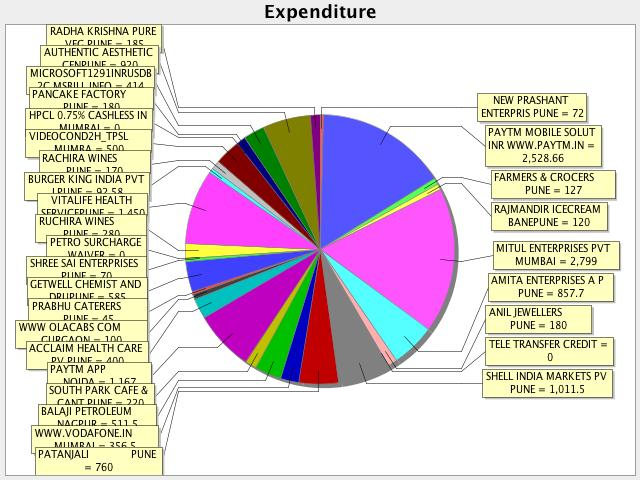
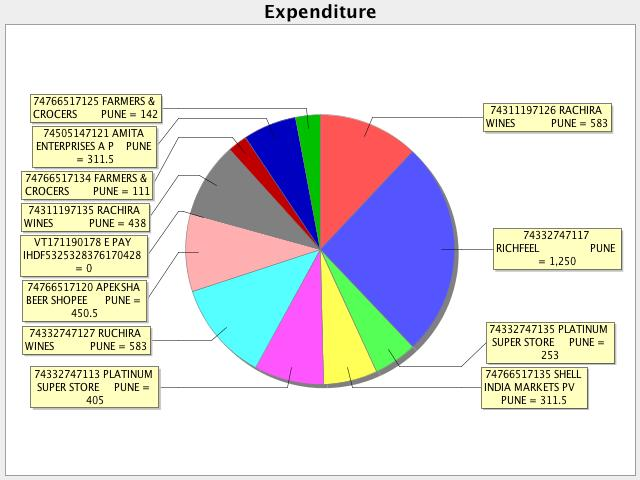
distinct transaction

diff --git a/src/test/java/com/billmartam/transaction/TransactionReportTest.java b/src/test/java/com/billmartam/transaction/TransactionReportTest.java
@@ -9,6 +9,7 @@ import com.billmartam.report.TransactionReport;
 
 import java.util.ArrayList;
 import java.util.List;
+import java.util.Map;
 
 /**
  * Created by pp00344204 on 19/06/17.
@@ -16,7 +17,7 @@ import java.util.List;
 public class TransactionReportTest {
 
     @Test
-    public void testtotalOfTransactionReport(){
+    public void testtotalOfTransactionReport() {
         List<Transaction> contents = new ArrayList<>();
         contents.add(new Transaction("15/05/2017", "PAYTM APP              NOIDA", 100.00f));
         contents.add(new Transaction("16/05/2017", "PAYTM MOBILE SOLUT INR www.paytm.in", 100.00f));
@@ -26,11 +27,11 @@ public class TransactionReportTest {
         transactionReport.setContents(contents);
         double result = transactionReport.getTotalExpenditure();
         double actual = 1024;
-        Assert.assertEquals(actual, result,0.0);
+        Assert.assertEquals(actual, result, 0.0);
     }
 
     @Test
-    public void testformattedtotalOfTransactionReport(){
+    public void testformattedtotalOfTransactionReport() {
         List<Transaction> contents = new ArrayList<>();
         contents.add(new Transaction("15/05/2017", "PAYTM APP              NOIDA", 100.00f));
         contents.add(new Transaction("16/05/2017", "PAYTM MOBILE SOLUT INR www.paytm.in", 100.00f));
@@ -54,7 +55,7 @@ public class TransactionReportTest {
         transactionReport.setContents(contents);
 
         int size = transactionReport.getKeys().size();
-        Assert.assertEquals(3,size);
+        Assert.assertEquals(3, size);
 
     }
 
@@ -69,7 +70,7 @@ public class TransactionReportTest {
         transactionReport.setContents(contents);
 
         double total = transactionReport.getTotalExpenditure();
-        Assert.assertEquals(1000.50f,total,0);
+        Assert.assertEquals(1000.50f, total, 0);
 
     }
 
@@ -97,5 +98,35 @@ public class TransactionReportTest {
 
         Assert.assertNotNull(transactionReport.getOrigin());
 
+    }
+
+    @Test
+    public void getDistinctKeyValuesTest() throws Exception {
+        List<Transaction> contents = new ArrayList<>();
+        contents.add(new Transaction("15/05/2017", "PAYTM APP              NOIDA", 100.00f));
+        contents.add(new Transaction("16/05/2017", "PAYTM MOBILE SOLUT, INR www.paytm.in", 100.00f));
+        contents.add(new Transaction("17/05/2017", "PAYTM MOBILE SOLUT INR www.paytm.in", 40.50f));
+        contents.add(new Transaction("18/05/2017", "PATANJALI              PUNE ", 760.00f));
+        TransactionReport transactionReport = new TransactionReport();
+        transactionReport.setContents(contents);
+
+        Map<String, List<Transaction>> values = transactionReport.getDistinctReport();
+
+        Assert.assertEquals(3,values.size());
+    }
+
+    @Test
+    public void getDistinctKeyandtotalTest() throws Exception {
+        List<Transaction> contents = new ArrayList<>();
+        contents.add(new Transaction("15/05/2017", "PAYTM APP              NOIDA", 100.00f));
+        contents.add(new Transaction("16/05/2017", "PAYTM MOBILE SOLUT, INR www.paytm.in", 100.00f));
+        contents.add(new Transaction("17/05/2017", "PAYTM MOBILE SOLUT INR www.paytm.in", 40.50f));
+        contents.add(new Transaction("18/05/2017", "PATANJALI              PUNE ", 760.00f));
+        TransactionReport transactionReport = new TransactionReport();
+        transactionReport.setContents(contents);
+
+        Map<String, Double> values = transactionReport.getDistinctKeyTotalReport();
+        String key = "PAYTM MOBILE SOLUT INR www.paytm.in";
+        Assert.assertEquals(140.50,values.get(key.toUpperCase()),0);
     }
 }

diff --git a/src/main/java/com/billmartam/pdf/PdfReaderView.java b/src/main/java/com/billmartam/pdf/PdfReaderView.java
@@ -80,16 +80,16 @@ public class PdfReaderView {
     }
 
     private void setOriginButtonListener() {
-        showOriginButton.addActionListener(a->{
+        showOriginButton.addActionListener(a -> {
             doReload();
             hideChart();
-           setSearchBody(convertToHtml(report.getOrigin().getData()));
+            setSearchBody(convertToHtml(report.getOrigin().getData()));
         });
     }
 
     private void setChartButtonListener() {
         chartButton.addActionListener(a -> {
-            if(!isChartVisible()) {
+            if (!isChartVisible()) {
                 setChart(report);
             }
         });
@@ -298,7 +298,7 @@ public class PdfReaderView {
             chartButton.setVisible(true);
             String file = new File(CHART_ICON_PATH).getCanonicalPath();
             Image img = ImageIO.read(new File(file));
-            img = img.getScaledInstance(75,50,2);
+            img = img.getScaledInstance(75, 50, 2);
             chartButton.setIcon(new ImageIcon(img));
         } catch (Exception ex) {
             ex.printStackTrace();
@@ -310,8 +310,8 @@ public class PdfReaderView {
         int height = 480;  /* Height of the image */
         File pieChart = null;
         try {
-            pieChart = new File( new File(CHART_ICON_PATH ).getCanonicalPath());
-            ChartUtilities.saveChartAsJPEG( pieChart , chart , width , height );
+            pieChart = new File(new File(CHART_ICON_PATH).getCanonicalPath());
+            ChartUtilities.saveChartAsJPEG(pieChart, chart, width, height);
         } catch (IOException e) {
             e.printStackTrace();
         }
@@ -392,10 +392,10 @@ public class PdfReaderView {
     private static PieDataset createDataset(TransactionReport report) {
         if (dataset == null) {
             dataset = new DefaultPieDataset();
-            Set keys = report.getKeys();
+            Map<String, Double> distinctKeyTotalReport = report.getDistinctKeyTotalReport();
+            Set keys = distinctKeyTotalReport.keySet();
             for (Object key : keys) {
-                double total = getGroupTotal((String) key, report);
-                dataset.setValue((String) key, total);
+                dataset.setValue((String) key, distinctKeyTotalReport.get(key));
             }
         }
         return dataset;

diff --git a/src/main/java/com/billmartam/report/TransactionReport.java b/src/main/java/com/billmartam/report/TransactionReport.java
@@ -2,12 +2,11 @@ package com.billmartam.report;
 
 import com.billmartam.pdf.Pdf;
 import com.billmartam.transaction.Transaction;
+import com.billmartam.transaction.TransactionSearch;
 import com.billmartam.util.Util;
 
 import java.io.Serializable;
-import java.util.HashSet;
-import java.util.List;
-import java.util.Set;
+import java.util.*;
 
 /**
  * Created by pp00344204 on 06/06/17.
@@ -84,5 +83,30 @@ public class TransactionReport implements Serializable{
 
     public Pdf getOrigin() {
         return pdf;
+    }
+
+    public Map<String, List<Transaction>> getDistinctReport() {
+        Set keys = getKeys();
+        TransactionSearch search = TransactionSearch.getSearchEngine(this);
+        Map<String, TransactionReport> transactions = search.getIndividualSearchTransaction(Util.join(keys));
+
+        Map<String, List<Transaction>> distinctReport = new HashMap<>();
+        for(String key : transactions.keySet()){
+            distinctReport.put(key, transactions.get(key).getContents());
+        }
+        return distinctReport;
+    }
+
+
+    public Map<String, Double> getDistinctKeyTotalReport() {
+        Set keys = getKeys();
+        TransactionSearch search = TransactionSearch.getSearchEngine(this);
+        Map<String, TransactionReport> transactions = search.getIndividualSearchTransaction(Util.join(keys));
+
+        Map<String, Double> distinctReport = new HashMap<>();
+        for(String key : transactions.keySet()){
+            distinctReport.put(key, transactions.get(key).getTotalExpenditure());
+        }
+        return distinctReport;
     }
 }

diff --git a/src/test/java/com/billmartam/util/UtilTest.java b/src/test/java/com/billmartam/util/UtilTest.java
@@ -3,6 +3,9 @@ package com.billmartam.util;
 import org.junit.Assert;
 import org.junit.Test;
 
+import java.util.HashSet;
+import java.util.Set;
+
 /**
  * Created by pp00344204 on 06/06/17.
  */
@@ -60,6 +63,18 @@ public class UtilTest {
     public void test_getCommaSplittedString() {
         String[] result = Util.getCommaSplittedString("pradeep,pankaj",",");
         Assert.assertArrayEquals(new String[]{"pradeep","pankaj"},result);
+    }
+
+    @Test
+    public void collection_join() throws Exception {
+        Set<String> keys = new HashSet<>();
+        keys.add("pradeep");
+        keys.add("pankaj");
+        keys.add("neha");
+
+        String actual = "pradeep,neha,pankaj";
+
+        Assert.assertEquals(actual, Util.join(keys));
     }
 
     @Test

diff --git a/src/main/java/com/billmartam/util/Util.java b/src/main/java/com/billmartam/util/Util.java
@@ -3,6 +3,7 @@ package com.billmartam.util;
 import java.text.DecimalFormat;
 import java.text.ParseException;
 import java.text.SimpleDateFormat;
+import java.util.Set;
 
 /**
  * Created by pp00344204 on 06/06/17.
@@ -60,5 +61,9 @@ public class Util {
         DecimalFormat decimalFormat = new DecimalFormat();
         decimalFormat.setMaximumFractionDigits(2);
         return decimalFormat.format(val);
+    }
+
+    public static String join(Set keys) {
+        return keys.toString().replace("[", "").replace("]", "").replace(", ", ",");
     }
 }

diff --git a/src/main/java/com/billmartam/transaction/Transaction.java b/src/main/java/com/billmartam/transaction/Transaction.java
@@ -21,7 +21,7 @@ public class Transaction implements Serializable{
 
     public Transaction(String date, String description, float price) {
         this.date = date;
-        this.description = description;
+        setDescription(description);
         this.price = price;
     }
 
@@ -30,7 +30,7 @@ public class Transaction implements Serializable{
     }
 
     public void setDescription(String description) {
-        this.description = description;
+        this.description = description.replace(",","");
     }
 
     public String getDate() {
